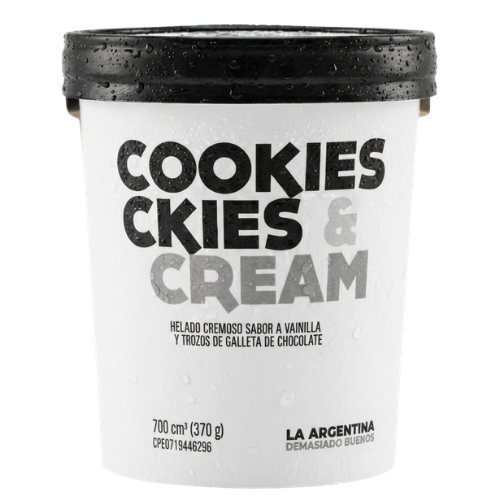
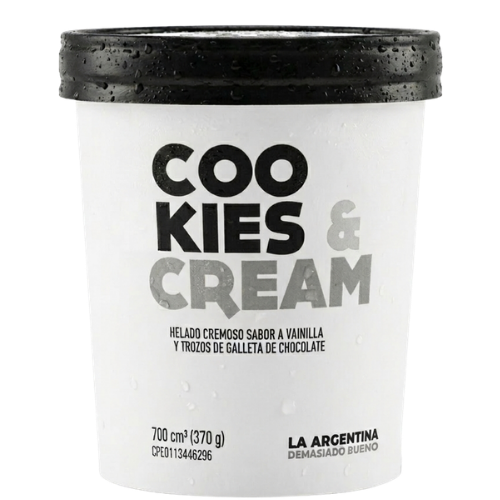
Ajustes a imagen cookies and cream

diff --git a/js/detalle.js b/js/detalle.js
@@ -11,7 +11,7 @@ const productos = {
         nombre: 'Cookies & Cream',
         color: '#1a1a1a',
         descripcion: 'El encuentro perfecto entre el helado cremoso de vainilla y los crujientes trozos de galleta de chocolate. Simplemente irresistible.',
-        imagenes: ['img/helados/ckies-and-cream.png', 'img/helados/ckies-and-cream2.png']
+        imagenes: ['img/helados/cookies-and-cream.png', 'img/helados/ckies-and-cream2.png']
     },
     'fantasia': {
         nombre: 'Fantasía',

diff --git a/productos.html b/productos.html
@@ -110,7 +110,7 @@
             <!-- Cookies and Cream -->
             <a href="detalle-helado.html?id=cookies-and-cream" class="producto-card" style="--color-sabor: #1a1a1a;">
                 <div class="producto-img-wrapper">
-                    <img src="img/helados/ckies-and-cream.png" alt="Cookies and Cream">
+                    <img src="img/helados/cookies-and-cream.png" alt="Cookies and Cream">
                 </div>
                 <div class="producto-info">
                     <h3 class="producto-nombre">Cookies & Cream</h3>